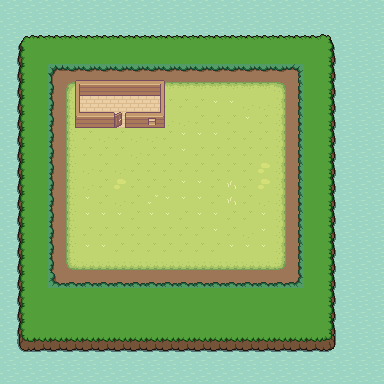
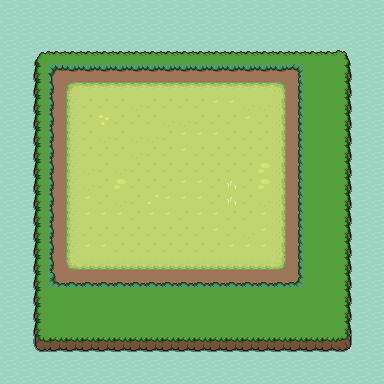
Add Prop class, Prop collision detect
-- Replace background image

Changed region(s): [[0.0312, 0.0938, 0.9375, 0.9375], [0.1875, 0.1875, 0.4375, 0.3438]]

diff --git a/Main.cpp b/Main.cpp
@@ -1,21 +1,30 @@
 #include "raylib.h"
 #include "raymath.h"
 #include "Character.h"
-
+#include "Prop.h"
 
 int main()
 {
     const int _windowWidth{384};
     const int _windowHeight{384};
+    // const int _windowWidth{640};
+    // const int _windowHeight{640};
 
     InitWindow(_windowWidth, _windowHeight, "MAIN_GAME");
 
     Texture2D _map = LoadTexture("Asset/TileMap/TileMap24x24_16_BG.png");
     Vector2 _mapPos{0.0f, 0.0f};
+    const float _mapScale = 4.f;
 
-    Character _knight;
-    _knight.SetCharacterPos(_windowWidth, _windowHeight);
+    Character _knight{_windowWidth, _windowHeight};
 
+    // Prop _rock{Vector2{0.f, 0.f}, LoadTexture("Asset/TileMap/Rock.png")};
+
+    Prop _props[2]{
+        Prop{Vector2{500.f, 300.f}, LoadTexture("Asset/TileMap/Rock.png")},
+        Prop{Vector2{400.f, 500.f}, LoadTexture("Asset/TileMap/Log.png")},
+
+    };
 
     SetTargetFPS(60);
 
@@ -26,14 +35,39 @@ int main()
 
         _mapPos = Vector2Scale(_knight.GetWorldPos(), -1.f);
 
-
         // Draw map
         DrawTextureEx(_map, _mapPos, 0.0f, 4.0f, WHITE);
 
+        // Draw props
+        for (auto prop : _props)
+        {
+            prop.Render(_knight.GetWorldPos());
+        }
+
+        // DrawText(TextFormat("MAP POS: %02f", _mapPos.x), 0, 0, 30, RED);
+        // DrawText(TextFormat("MAP POS: %02f", _mapPos.y), 0, 30, 30, RED);
+
         _knight.Tick(GetFrameTime());
+
+        // Check if inside map boundary
+        if (_knight.GetWorldPos().x < 0.f ||
+            _knight.GetWorldPos().y < 0.f ||
+            _knight.GetWorldPos().x + _windowWidth > _map.width * _mapScale ||
+            _knight.GetWorldPos().y + _windowHeight > _map.height * _mapScale)
+        {
+            _knight.UndoMovement();
+        }
+
+        // Collision Check
+        for (auto prop : _props)
+        {
+            if (CheckCollisionRecs(prop.GetCollisionRec(_knight.GetWorldPos()), _knight.GetCollisionRec()))
+            {
+                _knight.UndoMovement();
+            }
+        }
 
         EndDrawing();
     }
     CloseWindow();
 }
-

diff --git a/Character.cpp b/Character.cpp
@@ -2,21 +2,20 @@
 #include "raylib.h"
 #include "raymath.h"
 
-Character::Character()
+Character::Character(int windWidth, int windHeight)
 {
     _width = _character_texture.width / (float)_maxFrames;
     _height = _character_texture.height;
-}
 
-void Character::SetCharacterPos(int winWidth, int winHeight)
-{
-    _characterPos = {
-        (float)winWidth / 2.0f - _characterScaleMultiplier * (0.5f * _width),
-        (float)winHeight / 2.0f - _characterScaleMultiplier * (0.5f * _height)};
+    _characterScreenPos = {
+        static_cast<float>(windWidth) / 2.0f - _characterScaleMultiplier * (0.5f * _width),
+        static_cast<float>(windHeight) / 2.0f - _characterScaleMultiplier * (0.5f * _height)};
 }
 
 void Character::Tick(float delatime)
 {
+    _characterPosAtLastFrame = _characterWorldPos;
+
     // Movement
     Vector2 direction{};
     if (IsKeyDown(KEY_A))
@@ -51,9 +50,25 @@ void Character::Tick(float delatime)
     // Draw the Character
     Rectangle source{_frame * _width, 0.f, _rightLeft * _width, _height};
     Rectangle destination{
-        _characterPos.x,
-        _characterPos.y,
+        _characterScreenPos.x,
+        _characterScreenPos.y,
         _characterScaleMultiplier * _width,
         _characterScaleMultiplier * _height};
     DrawTexturePro(_character_texture, source, destination, Vector2{}, 0.f, WHITE);
+}
+
+void Character::UndoMovement()
+{
+    _characterWorldPos = _characterPosAtLastFrame;
+}
+
+Rectangle Character::GetCollisionRec()
+{
+
+    return Rectangle{
+        _characterScreenPos.x,
+        _characterScreenPos.y,
+        _width * _characterScaleMultiplier,
+        _height * _characterScaleMultiplier
+    };
 }

diff --git a/Character.h b/Character.h
@@ -3,18 +3,23 @@
 class Character
 {
 public:
-    Character();
+    Character(int windWidth, int windHeight);
     Vector2 GetWorldPos() { return _characterWorldPos; }
-    void SetCharacterPos(int winWidth, int winHeight);
+
     void Tick(float delatime);
+    void UndoMovement();
+
+    Rectangle GetCollisionRec();
 
 private:
     Texture2D _character_texture{LoadTexture("Asset/CharacterSprite/knight_idle_spritesheet.png")};
     Texture2D _character_idle{LoadTexture("Asset/CharacterSprite/knight_idle_spritesheet.png")};
     Texture2D _character_run{LoadTexture("Asset/CharacterSprite/knight_run_spritesheet.png")};
-    Vector2 _characterPos{0.f, 0.f};
+    Vector2 _characterScreenPos{0.f, 0.f};
     Vector2 _characterWorldPos{0.f, 0.f};
+    Vector2 _characterPosAtLastFrame{0.f, 0.f};
     float _characterScaleMultiplier = 4.0f;
+
     // 1: facing right, -1: facing left
     float _rightLeft{1.f};
 

diff --git a/Prop.cpp b/Prop.cpp
@@ -1,0 +1,26 @@
+#include "Prop.h"
+#include "raylib.h"
+#include "raymath.h"
+
+Prop::Prop(Vector2 pos, Texture2D tex) : m_worldPos(pos),
+                                         m_texture(tex)
+{
+}
+
+void Prop::Render(Vector2 characterPos)
+{
+    Vector2 screenPos{Vector2Subtract(m_worldPos, characterPos)};
+    DrawTextureEx(m_texture, screenPos, 0.f, m_scale, WHITE);
+}
+
+Rectangle Prop::GetCollisionRec(Vector2 characterPos)
+{
+    Vector2 screenPos{Vector2Subtract(m_worldPos, characterPos)};
+    return Rectangle
+    {
+        screenPos.x,
+            screenPos.y,
+            m_texture.width *m_scale,
+            m_texture.height *m_scale,
+    };
+}

diff --git a/Prop.h b/Prop.h
@@ -1,0 +1,13 @@
+#include "raylib.h"
+
+class Prop
+{
+public:
+    Prop(Vector2 pos, Texture2D tex);
+    void Render(Vector2 characterPos);
+    Rectangle GetCollisionRec(Vector2 character);
+private:
+    Vector2 m_worldPos{};
+    Texture2D m_texture{};
+    float m_scale{4.f};
+};
